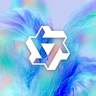
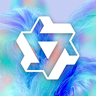
fix(models): 千问 3.8 Max / Flash 的白色千问标放大到方图的 66%
用户看了上一个 commit 的菜单截图：「qwen 这个白色贴图也太小了」。46% 在 32px 菜单头像里只占中间一小块；
对比了 58 / 66 / 74% 在 96 / 32 / 20 / 16px 下的样子：66% 在 16px 仍认得出标、四周还露出底图；74% 几乎顶到
圆角边。取 66%，投影随之放大。

Made-with: Orbita

Changed region(s): [[0.1562, 0.1562, 0.8438, 0.875]]

diff --git a/src/renderer/src/features/settings/ModelAvatar.tsx b/src/renderer/src/features/settings/ModelAvatar.tsx
@@ -41,7 +41,7 @@ import { VendorLogo } from "./VendorLogo";
  *   <id>-texture.webp）——把星系、太阳、月亮抠出来缩到方图约三分之一，放在同图取样的星空底上；
  *   月亮在原图里被右缘切掉一截，按左半镜像补成整轮（2026-10-25 用户：「月亮和太阳的占比放小一点」）；
  * - qwen3.8-max / qwen3.8-flash：千问 AI 平台模型市场（qianwenai.com/models）顶部轮播的两张封面
- *   （绿草几何体、彩色羽流）裁方，正中贴白色千问标（与 DeepSeek 两枚贴鲸鱼同一做法：标宽约方图的 46%，
+ *   （绿草几何体、彩色羽流）裁方，正中贴白色千问标（与 DeepSeek 两枚贴鲸鱼同一做法；标宽约方图的 66%——46% 时用户嫌太小，
  *   下方一层柔和投影——Flash 的底是浅色，纯白标会糊进去）；
  * - qwen3.8-27b：千问公众号「Qwen3.8-27B 开源」正文头图（2048×1152，推文封面是 2.35:1 裁过的、会切掉设备上下沿），
  *   裁出完整的三台设备与地平线（避开右边的标题字）；
